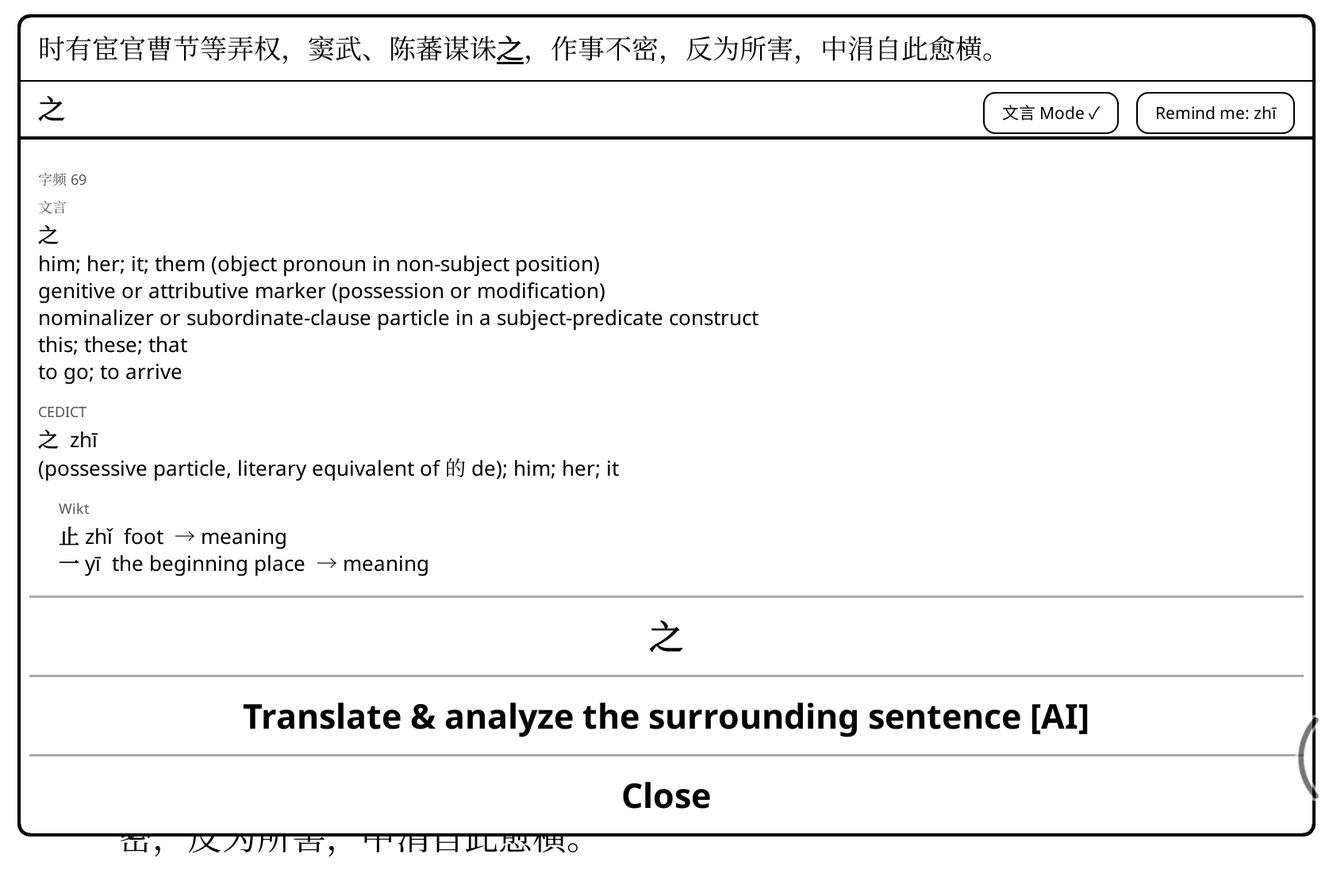
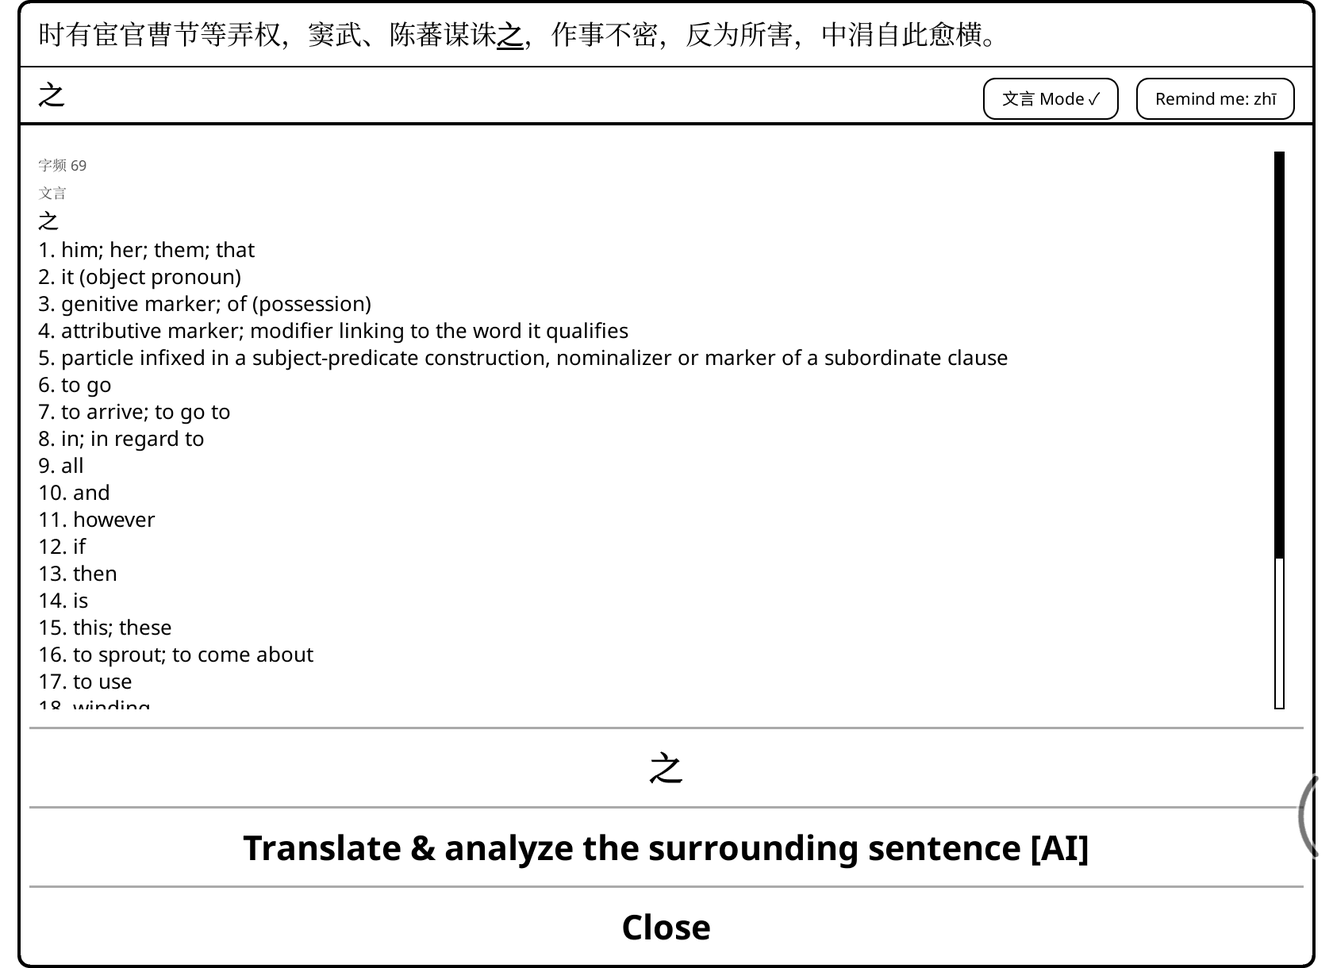
#72/#74/#69: README shots retaken with Words first on and 简 • 繁 head lines; classical crop; alt texts
Claude-Session: https://claude.ai/code/session_01WPaZhi1YQWRP1tCkexqFJV

diff --git a/tools/make_screenshots.py b/tools/make_screenshots.py
@@ -200,7 +200,7 @@ SHOTS = {
     # block first and in full, and the 文言 Mode ✓ button in the title bar.
     "classical": dict(page="sg1", classical=True, taps=[("之", 3, (1330, 1085), [
         "[文言]", "1. him; her; them; that", "2. it (object pronoun)", "**之**  zhī"])],
-        frames=[(1, (95, 1191))]),
+        frames=[(1, (22, 1242))]),
     # The popup's title-bar button, on 盘 in that paragraph.
     "mark-button": dict(page="aq59", threshold=0, drawn=AQ59_ALL, taps=[("盘", 1, (260, 565), ["**盘** • 盤  pán"])],
                         frames=[(1, (169, 542))]),

diff --git a/README.md b/README.md
@@ -26,7 +26,7 @@ never modified.
 
 KOReader 中文阅读插件：点一个字，即可看到它在本句中组成的词及其释义，并标出它在此处的读音；还可在字上方显示拼音，从只标生僻字到每个字都标（学习模式），学会一个读音点一下即可隐去，初学者和熟练读者都适用。
 
-![The opening of 三国演义 第一回 on a Boox Go 7: the chapter title, then the popup on 密. At its top, the line 时有宦官曹节等弄权，窦武、陈蕃谋诛之，作事不密，反为所害，中涓自此愈横。 with 密 in bold and underlined; the title bar, 密 on the left and the buttons 文言 Mode and Remind me: mì on the right; then 字频 646 in small grey and, on the row below, the label CEDICT; 密 mì, "dense; close; … (bound form) secret; confidential …", "Mì: surname Mi"; its parts, labelled Wikt: 宓 mì still; silent → sound (same sound), 山 shān mountain → meaning; then 不密 bùmì "(literary) not well thought out; (literary) not secret", labelled Wikt; buttons 密 and 不密, then Translate & analyze the surrounding sentence [AI] on its own row, then Close at the bottom. Below the popup, the end of the paragraph's last line, 密，反为所害，中涓自此愈横。, with 密 underlined on the page](docs/main.png)
+![The opening of 三国演义 第一回 on a Boox Go 7: the chapter title, then the popup on 密. At its top, the line 时有宦官曹节等弄权，窦武、陈蕃谋诛之，作事不密，反为所害，中涓自此愈横。 with 密 in bold and underlined; the title bar, 密 on the left and the buttons 文言 Mode and Remind me: mì on the right; first the word around it, labelled Wikt: 不密 bùmì "(literary) not well thought out; (literary) not secret"; then 字频 646 in small grey and, on the row below, the label CEDICT; 密 mì, "dense; close; … (bound form) secret; confidential …", "Mì: surname Mi"; its parts, labelled Wikt: 宓 mì still; silent → sound (same sound), 山 shān mountain → meaning; buttons 密 and 不密, then Translate & analyze the surrounding sentence [AI] on its own row, then Close at the bottom. Below the popup, the end of the paragraph's last line, 密，反为所害，中涓自此愈横。, with 密 underlined on the page](docs/main.png)
 
 It has only been tested on a Boox Go 7, but it should work on any e-reader that runs KOReader:
 Kobo, Kindle, PocketBook, and Android devices such as Boox.
@@ -38,22 +38,22 @@ Kobo, Kindle, PocketBook, and Android devices such as Boox.
 </tr>
 <tr>
 <td><img src="docs/off-on.png" alt="The 临江仙 that opens 三国演义, pinyin off (top) and on (bottom): with it on, only 樵 qiáo and 渚 zhǔ get pinyin, the rest of the page stays clean"><br><a href="#usage"><b>Pinyin only above the hard characters</b></a>, at the level you choose (here the default: outside the 3,500 most common)</td>
-<td><img src="docs/context.png" alt="Popup for 间 in 孔乙己's 虽然间或没有现钱: at the top the line 但他在我们店里，品行却比别人都好，就是从不拖欠；虽然间或没有现钱，… with 间 marked; the 文言 Mode and reading-mark buttons in the title bar; 字频 113, then the label CEDICT, then 间 間 jiàn · likely here, jiān listed after it; its parts 门 and 日 labelled MMAH; labelled CEDICT, 间或 間或 jiànhuò · decides 间's reading, occasionally; now and then"><br><a href="#the-popup"><b>The reading it has here</b></a>, and the word that decides it: 间 is <i>jiàn</i> in 间或</td>
+<td><img src="docs/context.png" alt="Popup for 间 in 孔乙己's 虽然间或没有现钱: at the top the line 但他在我们店里，品行却比别人都好，就是从不拖欠；虽然间或没有现钱，… with 间 marked; the 文言 Mode and reading-mark buttons in the title bar; first, labelled CEDICT, 间或 • 間或 jiànhuò · decides 间's reading, occasionally; now and then; then 字频 113, the label CEDICT and 间 • 間 jiàn · likely here, jiān listed after it; its parts 门 and 日 labelled MMAH"><br><a href="#the-popup"><b>The reading it has here</b></a>, and the word that decides it: 间 is <i>jiàn</i> in 间或</td>
 </tr>
 <tr>
-<td><img src="docs/components.png" alt="Popup for 茴 in 孔乙己's 要一碟茴香豆: at the top the line 他不回答，对柜里说：“温两碗酒，要一碟茴香豆。” with 茴 marked; the 文言 Mode and reading-mark buttons in the title bar; 字频 4,633, then the label CEDICT, then 茴 huí (bound form) fennel; its parts, labelled Wikt: 艹 cǎo grass; plant (草字头) → meaning, 回 huí to go back → sound (same sound); then 茴香豆 and 茴香, each labelled CEDICT"><br><a href="#character-components"><b>What each character is made of</b></a>: 茴 is 艹 for the meaning and 回 <i>huí</i> for the sound</td>
-<td><img src="docs/traditional.png" alt="Popup for 观 in 阿Q正传's 观音娘娘: at the top the line …而且又不见了观音娘娘座前的一个宣德炉。 with 观 marked; the 文言 Mode and reading-mark buttons in the title bar; 字频 407, then the label CEDICT, then 观 觀 guān · likely here (觀 smaller), with guàn and Guàn after it; traditional 觀: 雚 guàn (archaic) stork; heron → sound (same sound), 見 jiàn see → meaning, simplified: 雚 → 又; labelled CEDICT, 观音 觀音 Guānyīn · decides 观's reading"><br><a href="#character-components"><b>Parts the simplification hid</b></a>: 观 is read through 觀, 雚 <i>guàn</i> → sound</td>
+<td><img src="docs/components.png" alt="Popup for 茴 in 孔乙己's 要一碟茴香豆: at the top the line 他不回答，对柜里说：“温两碗酒，要一碟茴香豆。” with 茴 marked; the 文言 Mode and reading-mark buttons in the title bar; first 茴香豆 and 茴香, each labelled CEDICT; then 字频 4,633, the label CEDICT and 茴 huí (bound form) fennel; its parts, labelled Wikt: 艹 cǎo grass; plant (草字头) → meaning, 回 huí to go back → sound (same sound)"><br><a href="#character-components"><b>What each character is made of</b></a>: 茴 is 艹 for the meaning and 回 <i>huí</i> for the sound</td>
+<td><img src="docs/traditional.png" alt="Popup for 观 in 阿Q正传's 观音娘娘: at the top the line …而且又不见了观音娘娘座前的一个宣德炉。 with 观 marked; the 文言 Mode and reading-mark buttons in the title bar; first, labelled CEDICT, 观音 • 觀音 Guānyīn · decides 观's reading; then 字频 407, the label CEDICT and 观 • 觀 guān · likely here, the same size, with guàn and Guàn after it; traditional 觀: 雚 guàn (archaic) stork; heron → sound (same sound), 見 jiàn see → meaning, simplified: 雚 → 又"><br><a href="#character-components"><b>Parts the simplification hid</b></a>: 观 is read through 觀, 雚 <i>guàn</i> → sound</td>
 </tr>
 <tr>
-<td><img src="docs/chengyu.png" alt="Popup for 也 in 孔乙己's 满口之乎者也: at the top the line 他对人说话，总是满口之乎者也，教人半懂不懂的。 with 也 marked; the 文言 Mode and reading-mark buttons in the title bar; then 字频 38 and the label CEDICT, 也 yě; its Wikt line pictogram (象形), 满口之乎者也 (滿口之乎者也 beside it) and 之乎者也, each labelled CEDICT, 之乎者也 with a Chinese line labelled 新华: 这四个字都是文言虚词，讽刺人说话喜欢咬文嚼字。也形容半文不白的话或文章。; a 成语 Origin &amp; Usage button"><br><a href="#chengyu"><b>Chengyu explained</b></a>: 之乎者也 with Xinhua's line (optional file) …</td>
+<td><img src="docs/chengyu.png" alt="Popup for 也 in 孔乙己's 满口之乎者也: at the top the line 他对人说话，总是满口之乎者也，教人半懂不懂的。 with 也 marked; the 文言 Mode and reading-mark buttons in the title bar; first 满口之乎者也 • 滿口之乎者也 and 之乎者也, each labelled CEDICT, 之乎者也 with a Chinese line labelled 新华: 这四个字都是文言虚词，讽刺人说话喜欢咬文嚼字。也形容半文不白的话或文章。; then 字频 38, the label CEDICT, 也 yě and its Wikt line pictogram (象形); a 成语 Origin &amp; Usage button"><br><a href="#chengyu"><b>Chengyu explained</b></a>: 之乎者也 with Xinhua's line (optional file) …</td>
 <td><img src="docs/chengyu-2.png" alt="The Origin &amp; Usage view for 之乎者也 from 新华成语: 释义; 出处 宋·文莹《湘山野录》：“之乎者也，助得甚事？”; 例句 他对人说话，总是满口之乎者也，叫人半懂不懂的。"><br>… and its <a href="#chengyu"><b>Origin &amp; Usage</b></a> view: the classical source and an example from this same passage of 孔乙己</td>
 </tr>
 <tr>
-<td><img src="docs/classical.png" alt="Popup for 之 in 三国演义's 窦武、陈蕃谋诛之: the line 时有宦官曹节等弄权，窦武、陈蕃谋诛之，作事不密，反为所害，中涓自此愈横。 with 之 marked; the title bar, 之 on the left and the buttons 文言 Mode ✓ and Remind me: zhī on the right; first 字频 69, then the label 文言 on a row of its own and the Classical entry, in full: 之, him; her; it; them (object pronoun in non-subject position), genitive or attributive marker (possession or modification), nominalizer or subordinate-clause particle in a subject-predicate construct, this; these; that, to go; to arrive; below it, labelled CEDICT, 之 zhī (possessive particle, literary equivalent of 的 de); him; her; it; then its parts, labelled Wikt: 止 zhǐ foot → meaning, 一 yī the beginning place → meaning"><br><a href="#classical-mode"><b>Classical mode</b></a>: one tap on 文言 Mode puts the senses classical texts use first, here 之 as <i>him; her; it; them</i> in 窦武、陈蕃谋诛之</td>
-<td><img src="docs/nested.png" alt="Popup for 秋 in the 临江仙, its title bar with the buttons 文言 Mode and Remind me: qiū, and on top of it the popup for 歡, tapped in MOE's quotation of 〈琵琶行〉: its line at the top is 「今年歡笑復明年，秋月春風等閒度。」 with 歡 marked and no buttons in its title bar, then 字频 443 and the label CEDICT, 欢 歡 huān, its parts 雚 and 欠 labelled Wikt, 欢笑 歡笑 huānxiào labelled CEDICT, and the buttons 歡 and 歡笑, then Close at the bottom (no Translate in a popup opened from a popup)"><br><a href="#tapping-a-character-in-the-popup"><b>Read the dictionary by tapping</b></a>: 歡, tapped in MOE's quotation of 〈琵琶行〉, opens its own popup on top</td>
+<td><img src="docs/classical.png" alt="Popup for 之 in 三国演义's 窦武、陈蕃谋诛之: the line 时有宦官曹节等弄权，窦武、陈蕃谋诛之，作事不密，反为所害，中涓自此愈横。 with 之 marked; the title bar, 之 on the left and the buttons 文言 Mode ✓ and Remind me: zhī on the right; first 字频 69, then the label 文言 on a row of its own and the Classical entry, its senses numbered: 之, 1. him; her; them; that, 2. it (object pronoun), 3. genitive marker; of (possession), 4. attributive marker…, 5. particle infixed in a subject-predicate construction…, 6. to go, 7. to arrive; to go to, and on to 18, with a scroll bar; then the buttons 之, Translate & analyze the surrounding sentence [AI] and Close"><br><a href="#classical-mode"><b>Classical mode</b></a>: one tap on 文言 Mode puts the senses classical texts use first, here 之 as <i>him; her; them</i> in 窦武、陈蕃谋诛之</td>
+<td><img src="docs/nested.png" alt="Popup for 秋 in the 临江仙, its title bar with the buttons 文言 Mode and Remind me: qiū, and on top of it the popup for 歡, tapped in MOE's quotation of 〈琵琶行〉: its line at the top is 「今年歡笑復明年，秋月春風等閒度。」 with 歡 marked and no buttons in its title bar, then, labelled CEDICT, 欢笑 • 歡笑 huānxiào; then 字频 443, the label CEDICT, 欢 • 歡 huān and its parts 雚 and 欠 labelled Wikt; the buttons 歡 and 歡笑, then Close at the bottom (no Translate in a popup opened from a popup)"><br><a href="#tapping-a-character-in-the-popup"><b>Read the dictionary by tapping</b></a>: 歡, tapped in MOE's quotation of 〈琵琶行〉, opens its own popup on top</td>
 </tr>
 <tr>
-<td><img src="docs/labels.png" alt="Popup for 秋 in the 临江仙's 惯看秋月春风: at the top the line 白发渔樵江渚上，惯看秋月春风。 with 秋 marked; the 文言 Mode and reading-mark buttons in the title bar; 字频 1,442, then the label CEDICT on a row of its own, then 秋 秋/鞦 qiū (used in 鞦韆|秋千 qiūqiān); its parts 禾 and 火 labelled MMAH; 秋月 labelled Wikt; last, 秋月春风 秋月春風 labelled 國語辭典 with MOE's definition in its own traditional characters, in larger type, quoting 白居易's 〈琵琶行〉: 「今年歡笑復明年，秋月春風等閒度。」; a 成语 Origin &amp; Usage button"><br><a href="#fallback-dictionaries"><b>Several dictionaries, each labelled</b></a>: CC-CEDICT for 秋, Wiktionary for 秋月, and MOE (optional) for 秋月春风, in larger type</td>
+<td><img src="docs/labels.png" alt="Popup for 秋 in the 临江仙's 惯看秋月春风: at the top the line 白发渔樵江渚上，惯看秋月春风。 with 秋 marked; the 文言 Mode and reading-mark buttons in the title bar; first 秋月 labelled Wikt; then 字频 1,442, the label CEDICT on a row of its own, 秋 • 鞦 qiū (used in 鞦韆|秋千 qiūqiān) and its parts 禾 and 火 labelled MMAH; last, 秋月春风 • 秋月春風 labelled 國語辭典 with MOE's definition in its own traditional characters, in larger type, quoting 白居易's 〈琵琶行〉: 「今年歡笑復明年，秋月春風等閒度。」; a 成语 Origin &amp; Usage button"><br><a href="#fallback-dictionaries"><b>Several dictionaries, each labelled</b></a>: CC-CEDICT for 秋, Wiktionary for 秋月, and MOE (optional) for 秋月春风, in larger type</td>
 <td><img src="docs/translate-result.png" alt="KOAssistant's Translate &amp; Analyze viewer, titled with the model gemini-3.5-flash-lite, its whole reply shown as its two pages, joined by a dashed line. Highlighted text: 孔乙己便涨红了脸，额上的青筋条条绽出，争辩道：“窃书不能算偷……窃书！ Translation: Kong Yiji flushed red right away, the veins on his forehead bulging out one by one, and he argued, &quot;Stealing books cannot be considered stealing... stealing books!&quot; Then one line per word, in bold characters with pinyin: 孔乙己 (Kǒng Yǐjǐ) Kong Yiji, the name of the character; 便 (biàn) right away, then; 涨红了脸 (zhǎng hóng le liǎn) flushed red in the face [涨 swell/flush + 红 red + 了 shows change + 脸 face]; 额 (é) forehead; 上 (shàng) on, placed after a noun; 的 (de) connects the forehead to the veins that belong to it; 青筋 (qīng jīn) blue veins; 条条 (tiáo tiáo) strip by strip, one by one, repeated to show multiple veins standing out; 绽出 (zhàn chū) burst out, bulge out; 争辩 (zhēng biàn) argue, debate; 道 (dào) say, used here to introduce spoken words; 窃书 (qiè shū) stealing books, literary, old-fashioned words [窃 steal secretly + 书 book]; 不能 (bù néng) cannot; 算 (suàn) count as; 偷 (tōu) steal, the everyday, common word for stealing, unlike the literary 窃 used earlier. Below, the viewer's buttons: Reply, Copy, Save to Note, Notebook, Pin, Close and others"><br><a href="#translating-the-sentence"><b>Translate &amp; Analyze the sentence</b></a> with KOAssistant: a translation and a plain-English, word-by-word breakdown of 孔乙己's 窃书不能算偷, down to why he says 窃 and not 偷 (your own AI provider, while Wi-Fi is on)</td>
 </tr>
 </table>
@@ -211,7 +211,7 @@ you learn.
 4. For a reading you keep forgetting, the same button on a character without pinyin reads
    **Remind me: …**, which does the opposite: that reading always gets pinyin, at any level.
 
-![The popup for 盘 in 阿Q正传 in learner mode: at the top the sentence 赵秀才消息灵，一知道革命党已在夜间进城，便将辫子盘在顶上，一早去拜访那历来也不相能的钱洋鬼子。 with 盘 marked; then the title bar, 盘 on the left and the buttons 文言 Mode and I know pán on the right; below it 字频 1,107, the label CEDICT and 盘 盤 pán with its senses](docs/mark-button.png)
+![The popup for 盘 in 阿Q正传 in learner mode: at the top the sentence …才消息灵，一知道革命党已在夜间进城，便将辫子盘在顶上，一早去拜访那历来也不相能的钱洋鬼子。 with 盘 marked; then the title bar, 盘 on the left and the buttons 文言 Mode and I know pán on the right; below it 字频 1,107, the label CEDICT and 盘 • 盤 pán with its senses](docs/mark-button.png)
 
 Your marks are kept outside the plugin's folder, so updates and reinstalls keep them (see
 [Known and remind-me readings](#known-and-remind-me-readings) for the file to back up). When the
@@ -317,7 +317,7 @@ tighter lines, because the plugin replaces the book's line height rather than ad
 
 ### The popup
 
-Every popup shows the sentence around the character, then every dictionary word around it, longest first, then the character with all its readings (the one it has here first), its frequency rank, traditional form and components. Nothing guesses where the words break. With **Words first** off, the character comes first and the words follow it (as in the screenshots).
+Every popup shows the sentence around the character, then every dictionary word around it, longest first, then the character with all its readings (the one it has here first), its frequency rank, traditional form and components. Nothing guesses where the words break. With **Words first** off, the character comes first and the words follow it.
 
 <details>
 <summary>Everything in the popup, in order</summary>
@@ -401,7 +401,7 @@ font chosen in KOReader's font menu, not a font the book embeds or sets in its C
 that font lacks comes from KOReader's usual fallback fonts. For a PDF, or when the font cannot be
 loaded, the popup uses the UI font. Turned off, the popup is exactly as before.
 
-![A popup for 观 in 阿Q正传: at the top the line 尼姑待他们走后，定了神来检点，龙牌固然已经碎在地上了，而且又不见了观音娘娘座前的一个宣德炉。 with 观 in bold and underlined, then 字频 407, the label CEDICT and 观 觀 guān · likely here with its other readings, its traditional form 觀's parts, and, labelled CEDICT, 观音 觀音 Guānyīn · decides 观's reading](docs/traditional.png)
+![A popup for 观 in 阿Q正传: at the top the line 尼姑待他们走后，定了神来检点，龙牌固然已经碎在地上了，而且又不见了观音娘娘座前的一个宣德炉。 with 观 in bold and underlined; first, labelled CEDICT, 观音 • 觀音 Guānyīn · decides 观's reading; then 字频 407, the label CEDICT and 观 • 觀 guān · likely here with its other readings, and its traditional form 觀's parts](docs/traditional.png)
 
 </details>
 
@@ -424,7 +424,7 @@ reading the reference gives first. Nothing else in the popup is tappable: not th
 <details>
 <summary>How popups on popups work</summary>
 
-![Popup for 秋 in the 临江仙, its title bar with the buttons 文言 Mode and Remind me: qiū, and on top of it the popup for 歡, tapped in MOE's quotation of 〈琵琶行〉: its line at the top is 「今年歡笑復明年，秋月春風等閒度。」 with 歡 marked and no buttons in its title bar, then 字频 443 and the label CEDICT, 欢 歡 huān, its parts 雚 and 欠 labelled Wikt, 欢笑 歡笑 huānxiào labelled CEDICT, and the buttons 歡 and 歡笑, then Close at the bottom (no Translate in a popup opened from a popup)](docs/nested.png)
+![Popup for 秋 in the 临江仙, its title bar with the buttons 文言 Mode and Remind me: qiū, and on top of it the popup for 歡, tapped in MOE's quotation of 〈琵琶行〉: its line at the top is 「今年歡笑復明年，秋月春風等閒度。」 with 歡 marked and no buttons in its title bar, then, labelled CEDICT, 欢笑 • 歡笑 huānxiào; then 字频 443, the label CEDICT, 欢 • 歡 huān and its parts 雚 and 欠 labelled Wikt; the buttons 歡 and 歡笑, then Close at the bottom (no Translate in a popup opened from a popup)](docs/nested.png)
 
 - **Its text is the popup's, not the book's.** The line at the top is the sentence around the
   character in the popup text: cut at 。！？；, a line break, or a closing quote after one of
@@ -551,7 +551,7 @@ switch the same setting. It is off until you turn it on.
 have one (賤人 *a lowly person*, 北面 *to face north as a subject*). Each entry is the complete set
 of classical senses the sources give, in English, numbered, the commonest in classical texts
 first, and always shown in full. It includes the senses classical and modern Chinese share (而
-*and*, 知 *to know*) and the ones modern Chinese lost (是 *this*, 之 *him; her; it; them*, 说 (說)
+*and*, 知 *to know*) and the ones modern Chinese lost (是 *this*, 之 *him; her; them*, 说 (說)
 *to be delighted*), and leaves out senses that are modern only (的 as a structural particle, 就
 *then*). For the commonest function characters the entry is long (之, 為, 將 run to 15–30 senses),
 and you scroll to reach the rest of the popup.
@@ -578,7 +578,7 @@ has to cite the source lines it came from, and the build drops any that cite not
 machine-made, and the order is the model's judgement, so if a sense looks odd, check it against
 CC-CEDICT or MOE. The details are below.
 
-<img src="docs/classical.png" alt="Popup for 之 in 三国演义's 窦武、陈蕃谋诛之: the line 时有宦官曹节等弄权，窦武、陈蕃谋诛之，作事不密，反为所害，中涓自此愈横。 with 之 marked; the title bar, 之 on the left and the buttons 文言 Mode ✓ and Remind me: zhī on the right; first 字频 69, then the label 文言 on a row of its own and the Classical entry, in full: 之, him; her; it; them (object pronoun in non-subject position), genitive or attributive marker (possession or modification), nominalizer or subordinate-clause particle in a subject-predicate construct, this; these; that, to go; to arrive; below it, labelled CEDICT, 之 zhī (possessive particle, literary equivalent of 的 de); him; her; it; then its parts, labelled Wikt: 止 zhǐ foot → meaning, 一 yī the beginning place → meaning">
+<img src="docs/classical.png" alt="Popup for 之 in 三国演义's 窦武、陈蕃谋诛之: the line 时有宦官曹节等弄权，窦武、陈蕃谋诛之，作事不密，反为所害，中涓自此愈横。 with 之 marked; the title bar, 之 on the left and the buttons 文言 Mode ✓ and Remind me: zhī on the right; first 字频 69, then the label 文言 on a row of its own and the Classical entry, its senses numbered: 之, 1. him; her; them; that, 2. it (object pronoun), 3. genitive marker; of (possession), 4. attributive marker…, 5. particle infixed in a subject-predicate construction…, 6. to go, 7. to arrive; to go to, and on to 18, with a scroll bar; then the buttons 之, Translate & analyze the surrounding sentence [AI] and Close">
 
 <details>
 <summary>How the Classical dictionary was built, and how well it does</summary>
@@ -625,7 +625,7 @@ While Wi-Fi is on and connected, the popup from the page has one more button on 
 own (popups opened from a popup's text do not). It closes the
 popup and sends **the whole sentence containing the tapped character**:
 
-![Popup for 窃 at the top of the page, its line 孔乙己便涨红了脸，额上的青筋条条绽出，争辩道：“窃书不能算偷……窃书！ with 窃 marked; the buttons 文言 Mode and Remind me: qiè in the title bar; 字频 2,026, the label CEDICT, 窃 竊 qiè to steal; secretly; (humble) I, its parts 穴 xué and 切 qiè labelled MMAH, then a 窃 button, Translate & analyze the surrounding sentence [AI] and Close; above and below it the page of 孔乙己, the popup covering 窃's own line](docs/translate.png)
+![Popup for 窃 at the top of the page, its line 孔乙己便涨红了脸，额上的青筋条条绽出，争辩道：“窃书不能算偷……窃书！ with 窃 marked; the buttons 文言 Mode and Remind me: qiè in the title bar; 字频 2,026, the label CEDICT, 窃 • 竊 qiè to steal; secretly; (humble) I, its parts 穴 xué and 切 qiè labelled MMAH, then a 窃 button, Translate & analyze the surrounding sentence [AI] and Close; above and below it the page of 孔乙己, the popup covering 窃's own line](docs/translate.png)
 
 - **With [KOAssistant](https://github.com/zeeyado/koassistant.koplugin) installed** (tested with
   0.23.0; the button uses its internals, so a later version may fall back to the built-in
